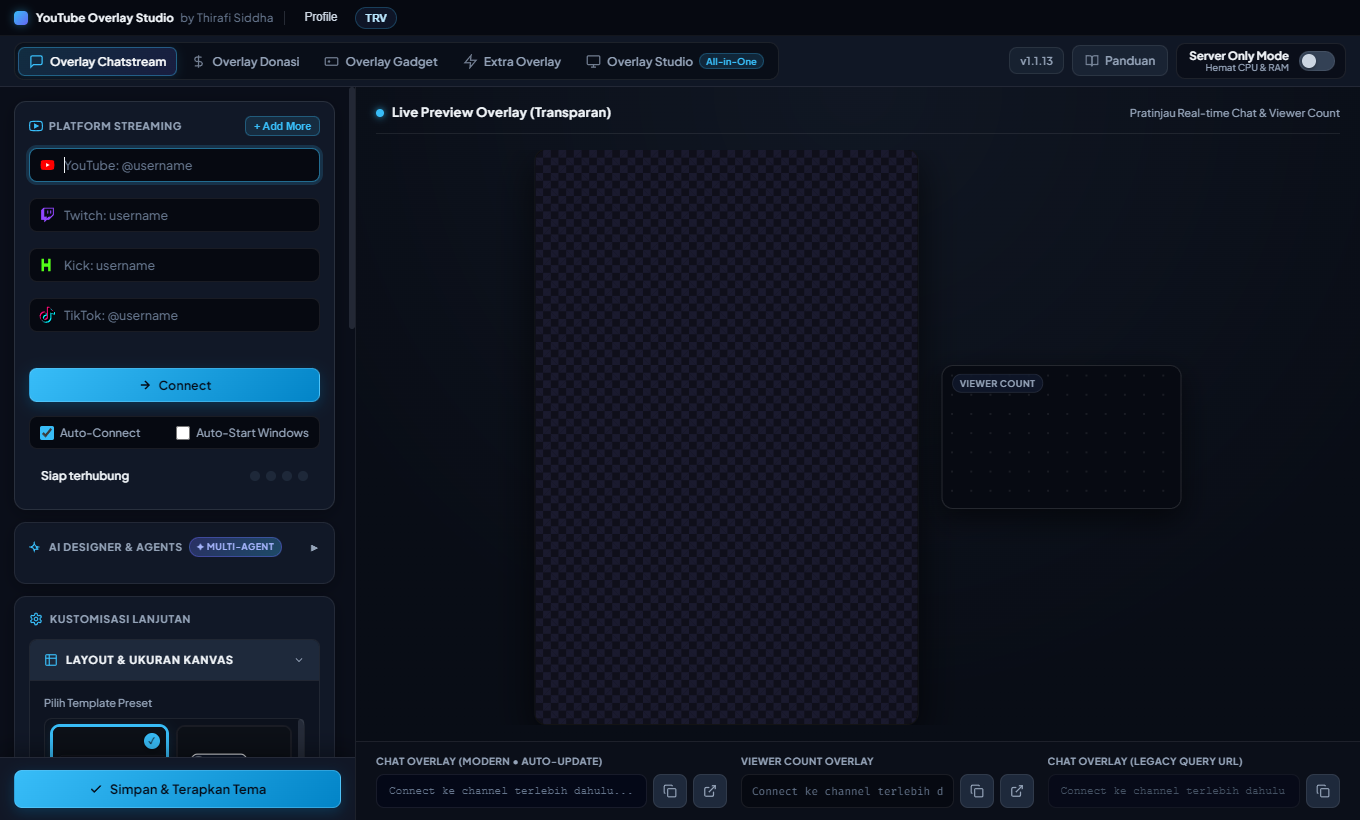
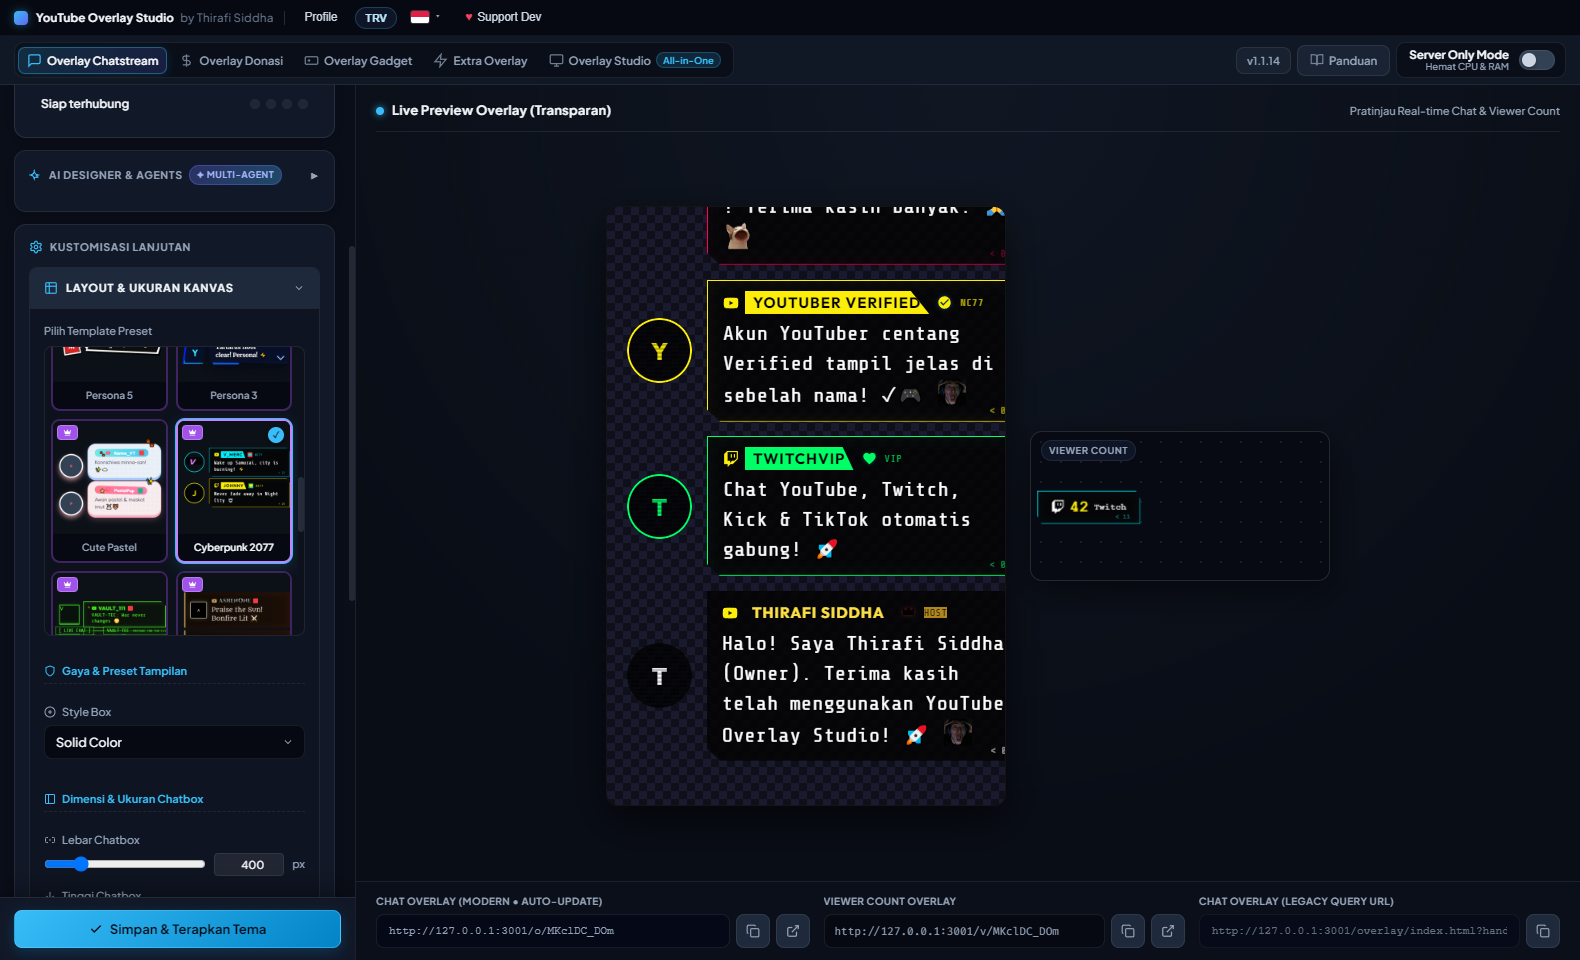
docs: refresh full live app screenshots for all features (v1.1.14)

diff --git a/README.md b/README.md
@@ -4,7 +4,7 @@
 
 # YouTube Overlay Studio
 
-**All-in-One Live Chat, Donation Alert, Game HUD, Stinger Transition & Hybrid Auto Subtitle untuk OBS Streamer**
+**All-in-One Live Chat, Donation Alert, Game HUD, Stinger Transition, Copyright Shield & Hybrid Auto Subtitle untuk OBS Streamer**
 
 *Dibuat oleh **Thirafi Siddha***
 
@@ -12,6 +12,7 @@
 [![Downloads](https://img.shields.io/github/downloads/thirafisiddha-ctrl/youtube-overlay-releases/total?style=for-the-badge&color=10b981&label=Total%20Downloads)](https://github.com/thirafisiddha-ctrl/youtube-overlay-releases/releases)
 [![Platform](https://img.shields.io/badge/Platform-Windows%20x64-6366f1?style=for-the-badge&logo=windows)](https://github.com/thirafisiddha-ctrl/youtube-overlay-releases/releases/latest)
 [![Zero OAuth](https://img.shields.io/badge/100%25-Tanpa%20Login%20OAuth-f59e0b?style=for-the-badge)](https://github.com/thirafisiddha-ctrl/youtube-overlay-releases/releases/latest)
+[![Languages](https://img.shields.io/badge/UI%20Language-ID%20%7C%20EN%20%7C%20%E6%97%A5%E6%9C%AC%E8%AA%9E-ec4899?style=for-the-badge)](https://github.com/thirafisiddha-ctrl/youtube-overlay-releases/releases/latest)
 
 [⬇ **Download Installer Terbaru (Windows .exe)**](https://github.com/thirafisiddha-ctrl/youtube-overlay-releases/releases/latest) · [📺 **Video Demo YouTube**](https://youtu.be/AGmcqtmTq5g) · [🐞 **Form Laporan Bug**](https://forms.gle/27QSHwnJWXuxpMDs6)
 
@@ -36,30 +37,72 @@
 ## ✨ Fitur Unggulan
 
 - **Multi-Platform Live Chat Overlay (Zero OAuth / Tanpa Login):** Gabungkan chat & viewer count real-time dari **YouTube, Twitch, Kick, dan TikTok** ke satu Browser Source OBS.
-- **Overlay Donasi & Media Share:** Integrasi **Saweria**, **Tako (Webhook)**, **Trakteer**, serta deteksi native **Super Chat / Super Sticker / Bits / Gift** beserta Emote Wall.
-- **Overlay Studio (All-in-One) + Monitor HUD 1 Layar:** Susun seluruh elemen (Chat, Alert, Emote Wall, Viewer Count, Now Playing) dalam 1 kanvas OBS, plus mode **Fullscreen Transparan (HUD)** langsung di atas game *(Borderless/Windowed)*.
-- **AI Hybrid Auto Subtitle (Mic + Discord/App Audio):** Mendukung engine lokal **Sherpa-ONNX**, **Faster-Whisper (CUDA GPU/INT8)**, **Whisper.cpp**, **Vosk WASM**, dan 8 Cloud API (**ElevenLabs Scribe v2, Deepgram Nova-2, Groq, Gemini, OpenAI, AssemblyAI, Gladia, Fireworks**) lengkap dengan terjemahan real-time & tetap aktif di System Tray.
-- **Extra Overlay Tools:** Stinger transisi transparan 60fps VP9+SFX, **Game Pulse** (deteksi Death/Kill/Victory + Elgato Stream Deck & Fifine), serta **Copyright Shield** anti-DMCA musik otomatis.
-- **Auto-Update Bawaan:** Cek versi baru otomatis via GitHub Releases, download dalam aplikasi, dan pasang 1-klik.
+- **Overlay Donasi & Media Share:** Integrasi **Saweria**, **Tako (Webhook)**, **Trakteer**, serta deteksi native **Super Chat / Super Sticker / Bits / Gift**.
+- **Overlay Gadget & Emote Wall:** Deteksi **Music Playing** (Spotify, YT Music, Browser, Stream Deck), **Social Media Rotator**, **Game Detection**, **Live Activity Pop-out**, **Pinned Chat Highlight**, & **Emote Wall** dengan reaksi elemen (🔥❄⚡🌊).
+- **Extra Overlay — Stinger Transisi 60fps:** Transisi WebM transparan VP9 Alpha + audio SFX bawaan siap tempel ke OBS Studio.
+- **Extra Overlay — Game Pulse:** Counter & animasi sinematik otomatis (**Deaths, Kills, Boss Victory**) lengkap dengan **Mini Counter HUD**, **Auto Vision Micro-ROI / Valve GSI**, **Chat Crowd Trigger**, dan integrasi **Elgato Stream Deck / Fifine**.
+- **Extra Overlay — Copyright Shield:** Sensor & ganti musik game berhak cipta secara real-time dengan playlist lagu no-copyright (Jalur DSP Virtual Cable atau OBS WebSocket v5) + Panic Hotkey `Alt+M`.
+- **Extra Overlay — AI Hybrid Auto Subtitle (Mic + Game / OBS Source):** Mendukung **Sherpa-ONNX**, **Faster-Whisper (GPU CUDA / INT8)**, **Whisper.cpp**, **Vosk WASM**, dan 8 Cloud API, plus **pilih langsung Audio Source dari OBS Studio** untuk terjemahan suara Game terpisah & tetap berjalan saat aplikasi masuk System Tray.
+- **Overlay Studio (All-in-One) + Monitor HUD 1 Layar:** Susun seluruh elemen dalam satu kanvas 16:9 / 9:16 OBS, plus mode **Fullscreen Transparan (HUD)** langsung di atas game *(Windowed/Borderless)*.
+- **Multi-Bahasa & Auto-Update:** Pilihan bahasa UI lengkap (**Indonesia / English / 日本語**) dari dropdown bendera di titlebar + cek/pasang pembaruan otomatis via GitHub Releases.
 
 ---
 
-## 🖥 Tampilan Aplikasi (Visual App UI)
+## 🖥 Screenshot Lengkap Semua Fitur (App UI)
 
 <div align="center">
 
-### 1. Multi-Platform Overlay Chatstream & AI Designer
-<img src="assets/ui-chatstream.png" alt="Overlay Chatstream Dashboard" width="92%" />
+### 1. Multi-Platform Overlay Chatstream & Live Preview + AI Designer
+*Chat gabungan YouTube, Twitch, Kick, & TikTok lengkap dengan role badge (Owner, Moderator, Member, Verified, Super Chat), Viewer Count, & 20 tema preset.*
+<img src="assets/ui-chatstream.png" alt="Overlay Chatstream Dashboard" width="96%" />
 
 <br />
 
-### 2. Overlay Studio (All-in-One Canvas) & Monitor HUD 1 Layar
-<img src="assets/ui-studio.png" alt="Overlay Studio Canvas & HUD" width="92%" />
+### 2. Overlay Donasi, Media Share & Native Super Chat
+*Integrasi Saweria, Tako Webhook, Trakteer, serta Super Chat / Super Sticker / Bits & Gift native — lengkap dengan preview langsung & tombol uji notifikasi.*
+<img src="assets/ui-donation.png" alt="Overlay Donasi Dashboard" width="96%" />
 
 <br />
 
-### 3. AI Auto Subtitle (Mic + Discord, Faster-Whisper CUDA & Stream Deck)
-<img src="assets/ui-subtitle.png" alt="Auto Subtitle Studio" width="92%" />
+### 3. Overlay Gadget, Pinned Chat Highlight & Emote Wall (Reaksi Elemen)
+*Now Playing Spotify/YT Music, Rotator Sosmed, Game Detection, Live Activity Pop-out, Pinned Highlight, serta hujan emote & custom sticker kreator.*
+<img src="assets/ui-gadget.png" alt="Overlay Gadget & Emote Wall" width="96%" />
+
+<br />
+
+### 4. Overlay Studio (All-in-One Canvas) & Monitor HUD 1 Layar
+*Atur posisi, ukuran, opacity, Custom CSS/HTML/JS, dan susunan layer dalam satu Browser Source OBS 16:9 / 9:16 atau tampilkan langsung di atas game.*
+<img src="assets/ui-studio.png" alt="Overlay Studio Canvas & HUD" width="96%" />
+
+<br />
+
+### 5. Extra Overlay — Hybrid AI Auto Subtitle (Mic + Game / OBS Source Translation)
+*Transkripsi real-time Mic Streamer + suara Game/Discord/OBS Source dengan bahasa terjemahan terpisah, Faster-Whisper CUDA, kontrol Stream Deck/Fifine, & mode Tray.*
+<img src="assets/ui-subtitle.png" alt="Auto Subtitle Studio" width="96%" />
+
+<br />
+
+### 6. Extra Overlay — Stinger Transisi OBS 60fps (VP9 Alpha + SFX)
+*Preview langsung frame cut point (ms), cek transparansi checkerboard, dan salin lokasi file `.webm` untuk Scene Transitions OBS Studio.*
+<img src="assets/ui-stinger.png" alt="Extra Overlay Stinger Transitions" width="96%" />
+
+<br />
+
+### 7. Extra Overlay — Game Pulse (Death / Kill / Boss Counter + Stream Deck)
+*Visual banner sinematik (YOU DIED, GREAT ENEMY FELLED, Fire XL), Mini HUD 4 pojok, Micro-ROI/Valve GSI, Hotkey `Alt+F1..F3`, & plugin native Elgato/Fifine.*
+<img src="assets/ui-gamepulse.png" alt="Extra Overlay Game Pulse" width="96%" />
+
+<br />
+
+### 8. Extra Overlay — Copyright Shield (Auto Music Suppression & Safe BGM)
+*Deteksi BGM berhak cipta otomatis dengan DSP Virtual Cable (Jalur A) maupun OBS WebSocket v5 Auto-Duck/Mute (Jalur B) serta playlist pengganti bebas copyright.*
+<img src="assets/ui-copyright.png" alt="Extra Overlay Copyright Shield" width="96%" />
+
+<br />
+
+### 9. Multi-Bahasa (ID / EN / 日本語) & Pop-out Support Developer
+*Dropdown bendera di titlebar untuk ganti bahasa seluruh UI secara instan serta tautan resmi dukungan developer (Website, Saweria, Tako Gift, GitHub Releases).*
+<img src="assets/ui-support-dev.png" alt="Support Developer & Language Switcher" width="96%" />
 
 </div>
 
@@ -181,8 +224,10 @@ Aplikasi ini dikembangkan oleh **Thirafi Siddha**. Terima kasih telah menggunaka
 
 | Platform | Link |
 | :--- | :--- |
+| 🌐 **Website Resmi** | [thirafisiddha.netlify.app](https://thirafisiddha.netlify.app/) |
+| 🟡 **Saweria** | [saweria.co/thirafisiddha](https://saweria.co/thirafisiddha) |
+| 💙 **Tako Gift** | [tako.id/TRVsiddha/gift](https://tako.id/TRVsiddha/gift) |
 | 🔴 **YouTube** | [Thirafi Siddha](https://www.youtube.com/@ThirafiSiddha) |
 | 📸 **Instagram** | [@trv_cd](https://www.instagram.com/trv_cd/) |
-| 💛 **Donate / Traktir** | [tako.id/TRVsiddha](https://tako.id/TRVsiddha) |
 | 🎮 **Indie Game Project** | [Silent Resonance (Itch.io)](https://trvansions.itch.io/silent-resonance-alpha) |
 | 🐞 **Laporan Bug & Saran** | [Form Laporan Bug](https://forms.gle/27QSHwnJWXuxpMDs6) |
